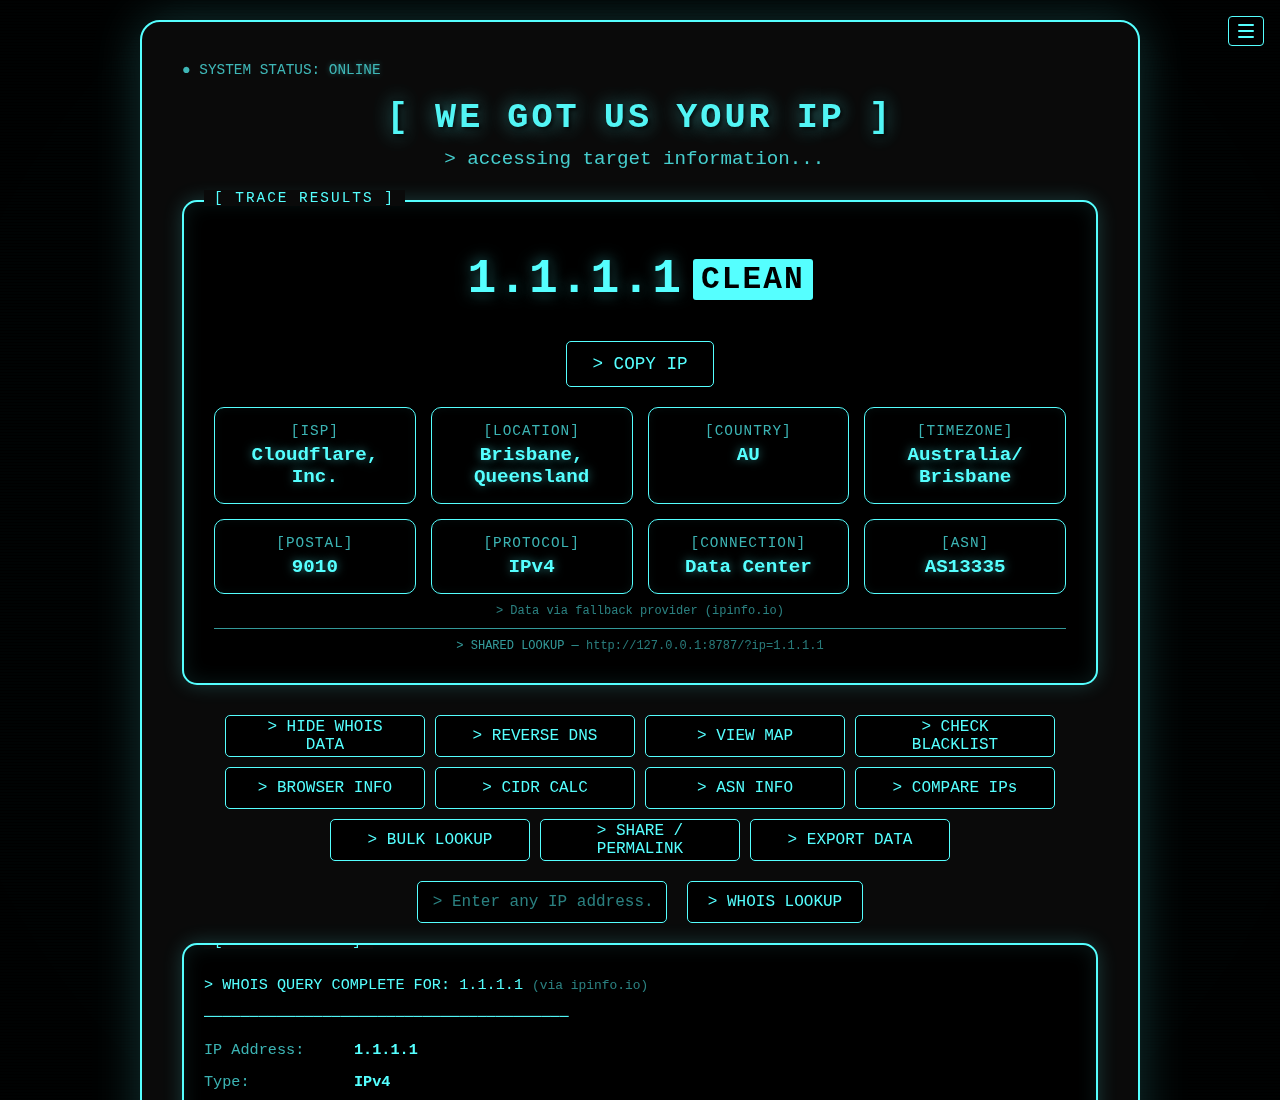
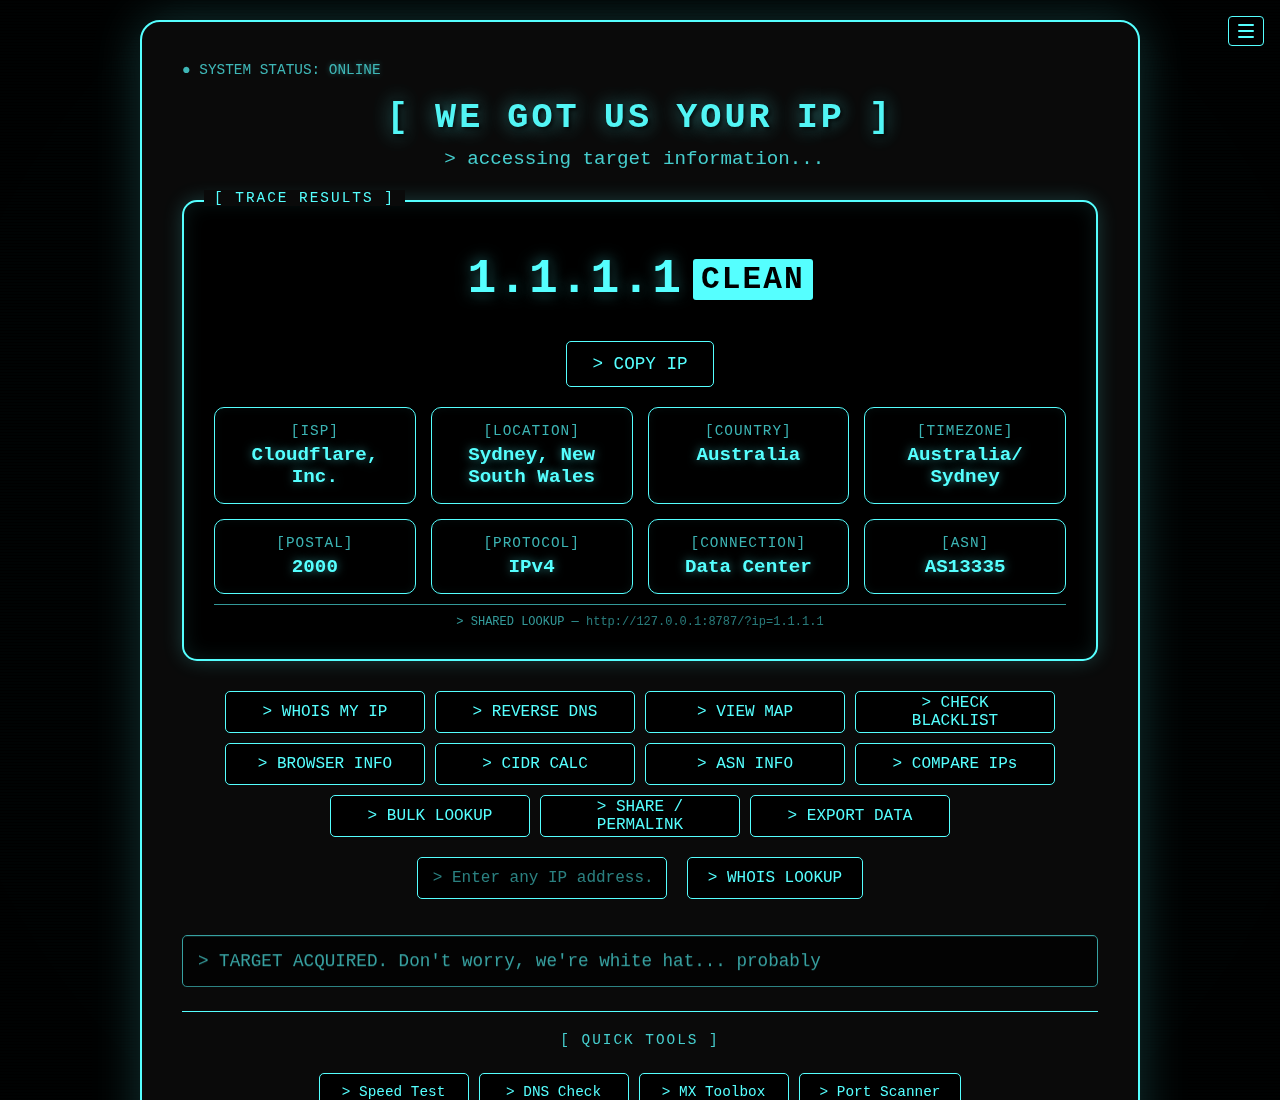
Update screenshots: WHOIS panel closed, fix permalink auto-open

diff --git a/scripts/screenshot_themes.py b/scripts/screenshot_themes.py
@@ -74,6 +74,9 @@ def main():
         except PWTimeout:
             print("Warning: IP detection timed out — screenshotting anyway.")
 
+        # ?ip= permalink auto-opens WHOIS — close all panels for clean screenshots
+        page.evaluate("window.closeAllSections && window.closeAllSections(null)")
+
 
         print(f"\nTaking {len(themes)} screenshots...\n")
 
